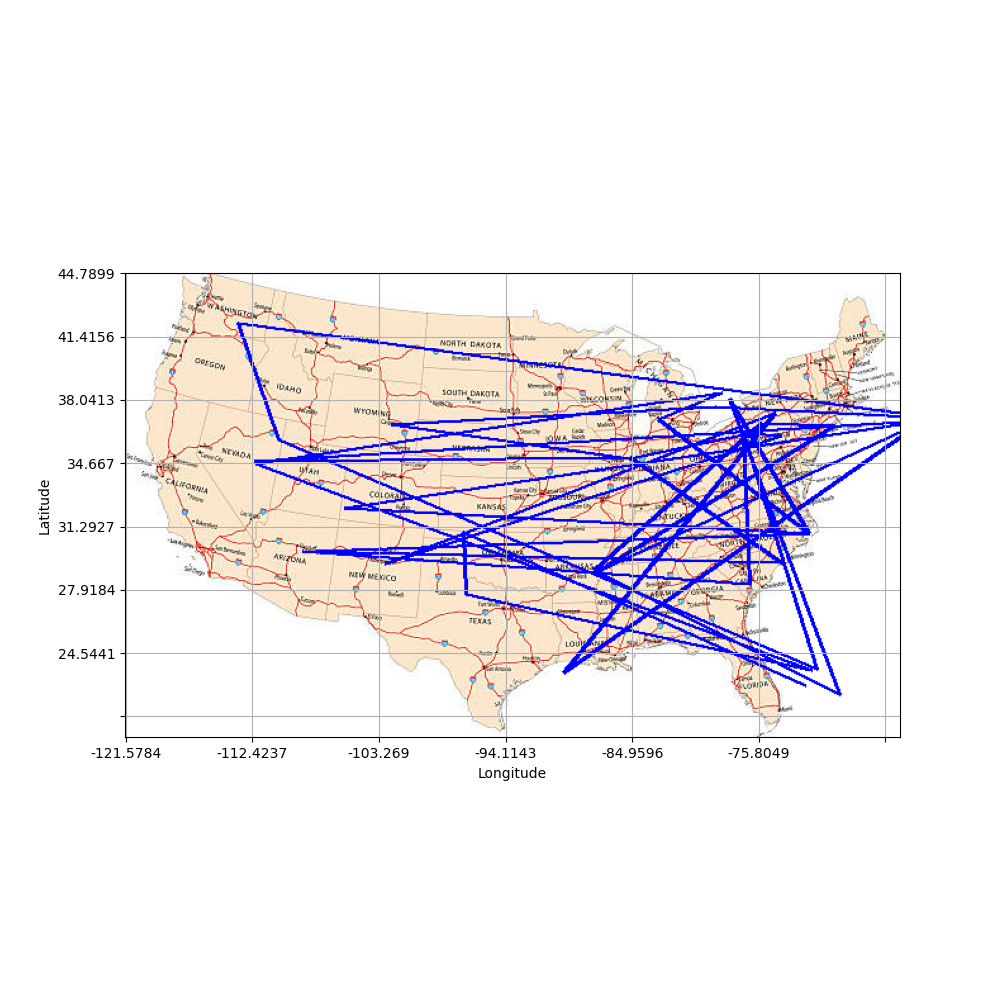
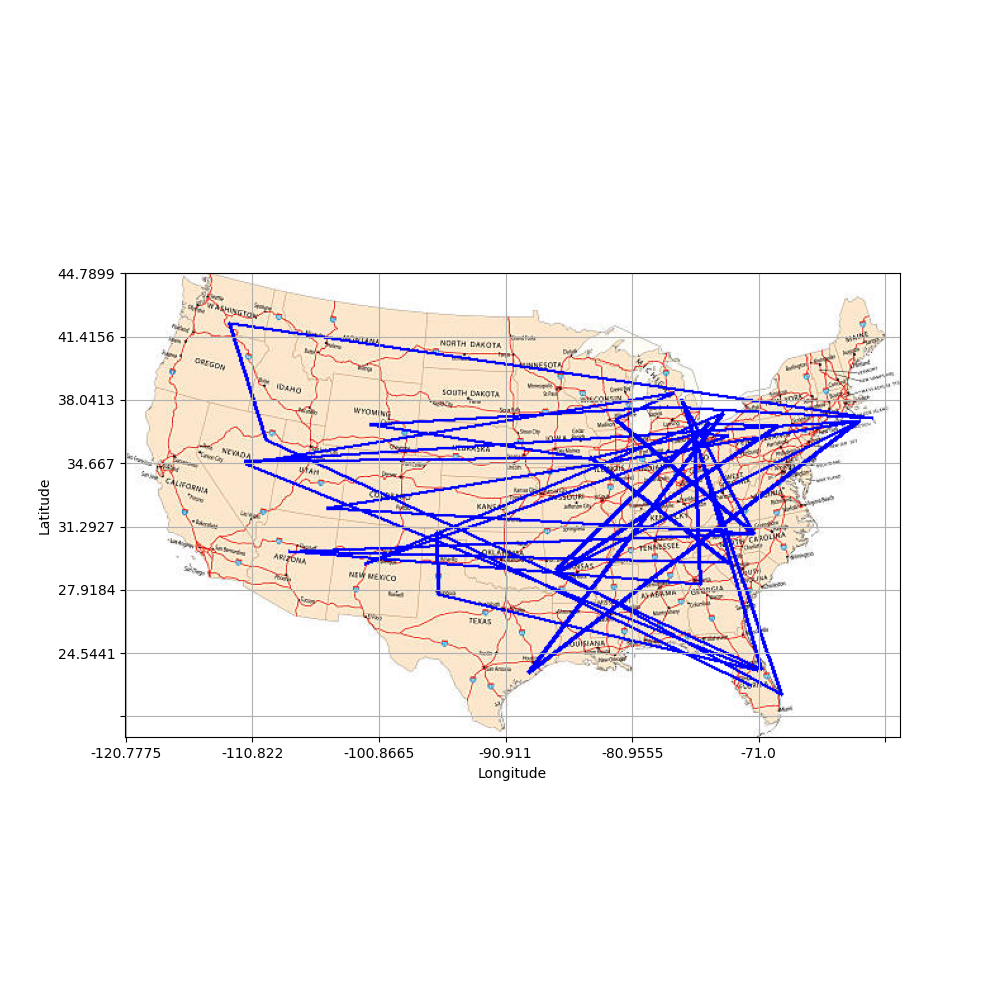
changes

diff --git a/main.py b/main.py
@@ -2,7 +2,7 @@ from gps_class import GPSVis
 
 vis = GPSVis(data_path='data.csv',
              map_path='map.png',  # Path to map downloaded from the OSM.
-             points=(48.164167, -130.733056, 24.54409, -71)) # Two coordinates of the map (upper left, lower right)
+             points=(48.164167, -124, 25.118333, -66.95005527501613)) # Two coordinates of the map (upper left, lower right)
 
 vis.create_image(color=(0, 0, 255), width=3)  # Set the color and the width of the GNSS tracks.
 vis.plot_map(output='save')
